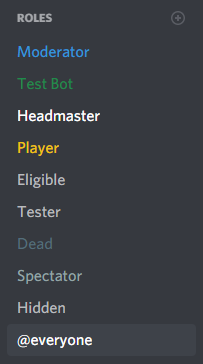
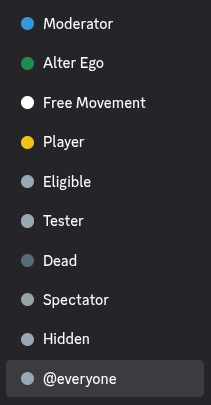
Updated channel and role creation article.

diff --git a/Docs/appendix/manual_installation/channel_and_role_creation.md b/Docs/appendix/manual_installation/channel_and_role_creation.md
@@ -18,23 +18,24 @@ permissions.
 This should be one of two roles in your server at the moment. Disable all permissions for it. There are some optional
 permissions you can enable for it, however. Doing this will enable them for every role:
 
-* Embed Links _(optional)_
-* Attach Files _(optional)_
-* Add Reactions _(optional)_
-* Use External Emojis _(optional)_
-    * If this permission is not enabled, then any external emojis that are sent in a Room channel, whether by a Player
-      or a [moderator](../../moderator_guide/moderating.md), will not be sent
-      in [spectate channels](../../reference/data_structures/player.md#spectate-channel). Instead, they will be replaced
-      with the name of the emoji.
-* Use External Stickers _(optional)_
-    * Stickers will not show up in spectate channels under any circumstances.
+- Embed Links _(optional)_
+- Attach Files _(optional)_
+- Add Reactions _(optional)_
+- Use External Emoji _(optional)_
+  - Whether this permission is enabled or not, any external emoji that are sent in Room or Whisper channels, whether
+    by a Player or a [moderator](../../reference/settings.md#moderator_role), will not be sent
+    in [spectate channels](../../reference/data_structures/player.md#spectate-channel). Instead, they will be
+    replaced with the name of the emoji. This is because Discord does not allow bots to use emoji from servers they
+    are not in, and Alter Ego can only be in one server.
+- Use External Stickers _(optional)_
+  - Stickers will not show up in spectate channels under any circumstances.
 
 ### [Bot name]
 
 This will have been automatically created when you added your bot to the server and will be the name of your bot. You
-can change the role's name if you wish, but be sure to give enable the following setting:
+can change the role's name if you wish, but be sure to enable the following setting:
 
-* Display role members separately from online members
+- Display role members separately from online members
 
 You can leave everything else as it is.
 
@@ -49,9 +50,9 @@ permissions for it.
 This is a new role you'll have to create. You can call it whatever you want, but remember that it's supposed to be the
 role for dead players. These are the settings you'll need to enable:
 
-* Display role members separately from online members
-* Allow anyone to **@mention** this role
-* Read Message History
+- Display role members separately from online members
+- Allow anyone to **@mention** this role
+- Read Message History
 
 Disable everything else.
 
@@ -60,9 +61,9 @@ Disable everything else.
 This is the role for spectators. Once again, you can call this (and all of the new roles) whatever you like, but the
 names given here are what's recommended for clarity's sake. Enable these settings:
 
-* Display role members separately from online members
-* Allow anyone to **@mention** this role
-* Read Message History
+- Display role members separately from online members
+- Allow anyone to **@mention** this role
+- Read Message History
 
 Disable everything else.
 
@@ -70,29 +71,31 @@ Disable everything else.
 
 This is the role for testers. This role is only necessary if you use debug mode. Enable these settings:
 
-* Allow anyone to **@mention** this role
-* Send Messages
+- Allow anyone to **@mention** this role
+- Send Messages and Create Posts
 
 Disable everything else.
 
 ### Eligible
 
-This is the role for users who allowed to play the game. If a user doesn't have this role, they won't be able to use the
-play command when you start the game. Enable these settings:
+This is the role for users who allowed to play the game. If a user doesn't have this role, they won't be able to use
+the [play command](../../reference/commands/eligible_commands.md#play) when you issue the
+[startgame command](../../reference/commands/moderator_commands.md#startgame). Enable these settings:
 
-* Allow anyone to **@mention** this role
-* Send Messages
+- Allow anyone to **@mention** this role
+- Send Messages and Create Posts
 
 Disable everything else.
 
 ### Player
 
 This is the role for players in an ongoing game. Users with the Eligible role will be given this role as soon as they
-use the play command. Enable these settings:
+use the play command, or when you use the [addplayer command](../../reference/commands/moderator_commands.md#addplayer).
+Enable these settings:
 
-* Display role members separately from online members
-* Allow anyone to **@mention** this role
-* Send Messages
+- Display role members separately from online members
+- Allow anyone to **@mention** this role
+- Send Messages and Create Posts
 
 Disable everything else.
 
@@ -101,10 +104,10 @@ Disable everything else.
 This role allows a player to move to any room they wish, adjacent or not. This should generally not be given out freely.
 Enable these settings:
 
-* Display role members separately from online members
-* Allow anyone to **@mention** this role
-* Send Messages
-* Read Message History
+- Display role members separately from online members
+- Allow anyone to **@mention** this role
+- Send Messages and Create Posts
+- Read Message History
 
 Disable everything else.
 
@@ -113,24 +116,24 @@ Disable everything else.
 This is the last role you need to make. This should be given to your moderator(s), including yourself. Enable these
 settings:
 
-* Display role members separately from online members
-* Allow anyone to **@mention** this role
+- Display role members separately from online members
+- Allow anyone to **@mention** this role
 
 From here, you have two options: you can either give them the Administrator permission, which automatically gives them
 all permissions, or grant the following permissions:
 
-* View Channels
-* Manage Channels
-* Manage Roles
-* View Audit Log
-* Change Nickname
-* Manage Nicknames
-* Send Messages
-* Embed Links
-* Attach Files
-* Mention @everyone, @here, and All Roles
-* Manage Messages
-* Read Message History
+- View Channels
+- Manage Channels
+- Manage Roles
+- View Audit Log
+- Change Nickname
+- Manage Nicknames
+- Send Messages and Create Posts
+- Embed Links
+- Attach Files
+- Mention @everyone, @here, and All Roles
+- Manage Messages
+- Read Message History
 
 Whether you give them Administrator privileges or not depends on whether or not you want any other moderators to be able
 to do things like change the server name or add emojis. All other permissions are optional.
@@ -140,7 +143,18 @@ to do things like change the server name or add emojis. All other permissions ar
 A good thing to do is to organize your roles. You can give them special colors if you want, too. An order like this is
 ideal:
 
-![](../../images/roles.png)
+![
+Moderator
+Alter Ego
+Free Movement
+Player
+Eligible
+Tester
+Dead
+Spectator
+Hidden
+@everyone
+](../../images/roles.png)
 
 **Ensure that the role that was created when you invited Alter Ego to the server (which was automatically assigned to
 it) is the second highest role in the list.** If it's not, it may have issues with permissions.
@@ -153,45 +167,45 @@ anything you want, but the ones listed here are recommended for clarity's sake.
 ### Category: Important
 
 This category is where you should put all of the important channels that will be viewable to everyone. You can put all
-kinds of channels here such as rules for the killing game, a list of players and their
-talents, [maps](../../moderator_guide/mapmaking.md), etc. Before anything else, though, you'll have to set the
+kinds of channels here such as rules for the role play, a list of players,
+[maps](../../moderator_guide/mapmaking.md), etc. Before anything else, though, you'll have to set the
 permission overrides for this category. Be sure to assign the following roles the listed permission overrides for this
 category:
 
-* @everyone
-    * View Channels: Enabled
-    * Send Messages: Disabled
-    * Read Message History: Enabled
-* Hidden
-    * View Channels: Disabled
-* Free Movement
-    * Send Messages: Enabled
-* Moderator
-    * Send Messages: Enabled _(only needed if Moderator doesn't have Administrator permission)_
+- @everyone
+  - View Channels: Enabled
+  - Send Messages and Create Posts: Disabled
+  - Read Message History: Enabled
+- Hidden
+  - View Channels: Disabled
+- Free Movement
+  - Send Messages and Create Posts: Enabled
+- Moderator
+  - Send Messages and Create Posts: Enabled _(only needed if Moderator doesn't have Administrator permission)_
 
 #### Channel: announcements
 
 This channel will be used by the bot in very limited circumstances. If a message is sent in this channel by a player
 with the Free Movement role, it will be sent to the spectate channels of all players. You can use this channel to post
-general announcements, announcements from the killing game host (e.g. morning and night announcements, body discovery
-announcements, etc.), and anything else you want to inform everyone about. You don't need to set any permission
-overrides for this channel.
+general announcements, announcements from the host of the role play (e.g. morning and night announcements, etc.),
+and anything else you want to inform everyone about. You don't need to set any permission overrides for this channel.
 
 ### Category: Out of Character
 
 This category is for people to talk outside of the game. You should set the following permission overrides for this
 category:
 
-* @everyone
-    * View Channels: Enabled
-    * Send Messages: Enabled
-    * Embed Links: Enabled
-    * Attach Files: Enabled
-    * Add Reactions: Enabled
-    * Use External Emojis: Enabled
-    * Read Message History: Enabled
-* Hidden
-    * View Channels: Disabled
+- @everyone
+  - View Channels: Enabled
+  - Send Messages and Create Posts: Enabled
+  - Embed Links: Enabled
+  - Attach Files: Enabled
+  - Add Reactions: Enabled
+  - Use External Emojis: Enabled
+  - Read Message History: Enabled
+  - Any others that you want
+- Hidden
+  - View Channels: Disabled
 
 #### Channel: general
 
@@ -205,42 +219,48 @@ channel.
 This channel is where dead players and spectators can discuss the game. Meta-gaming here is completely fine, as living
 players won't be able to see it. You should set the following permission overrides for this channel:
 
-* @everyone
-    * View Channel: Neutral
-* Dead
-    * View Channel: Enabled
-* Spectator
-    * View Channel: Enabled
+- @everyone
+  - View Channel: Disabled
+- Hidden
+  - View Channel: Your choice
+- Dead
+  - View Channel: Enabled
+- Spectator
+  - View Channel: Enabled
+- Moderator
+  - View Channel: Enabled
 
 #### Channel: testing
 
 This channel is only necessary if you use debug mode. If you do, the startgame and endgame announcements will be made in
 this channel instead of in general. You should set the following permission overrides for this channel:
 
-* @everyone
-    * View Channel: Disabled
-* Tester
-    * View Channel: Enabled
-* Moderator
-    * View Channel: Enabled
+- @everyone
+  - View Channel: Disabled
+- Hidden
+  - View Channel: Your choice
+- Tester
+  - View Channel: Enabled
+- Moderator
+  - View Channel: Enabled
 
 ### Category: Control Center
 
 This category is for the moderator(s) only. You should set the following permission override for this category:
 
-* Moderator
-    * View Channels: Enabled
+- Moderator
+  - View Channels: Enabled
 
 #### Channel: bot-log
 
-This channel is where Alter Ego will post the time and location in which players perform actions. For example, every
-time a player moves to another room, it will be posted here. Every time a player inspects a Fixture or item, it will be
-posted here. Due to the sheer number of messages that will be posted in this channel, it is strongly recommended you
-mute it.
+This channel is where Alter Ego will post the time and location of almost every in-game action. This keeps every in-game
+occurrence in one place, in a linear order, which is useful for moderator reference.
+
+Due to the sheer number of messages that will be posted in this channel, it is strongly recommended you mute it.
 
 #### Channel: bot-commands
 
-This channel is the only place where Alter Ego will accept commands from a moderator.
+This channel is where Alter Ego will accept commands from a moderator.
 
 ### Category: Rooms
 
@@ -256,22 +276,22 @@ set any permission overrides for room categories or the channels that belong to 
 This category is where Alter Ego will create [Whisper](../../reference/data_structures/whisper.md) channels. There is
 only one permission override you should make, but it is optional:
 
-* Player
-    * Read Message History: Enabled
+- Player
+  - Read Message History: Enabled
 
-### Category: Spectators
+### Category: Spectate
 
 This category is where Alter Ego will create and post to spectate channels for each player. These will allow spectators
 to view the game for any player they choose, seeing everything they see in real time. You should set the following
 permission override for this category:
 
-* @everyone
-    * Send Messages: Disabled
-    * Read Message History: Enabled
-* Dead
-    * View Channels: Enabled
-* Spectator
-    * View Channels: Enabled
+- @everyone
+  - Send Messages: Disabled
+  - Read Message History: Enabled
+- Dead
+  - View Channels: Enabled
+- Spectator
+  - View Channels: Enabled
 
 ### Other
 